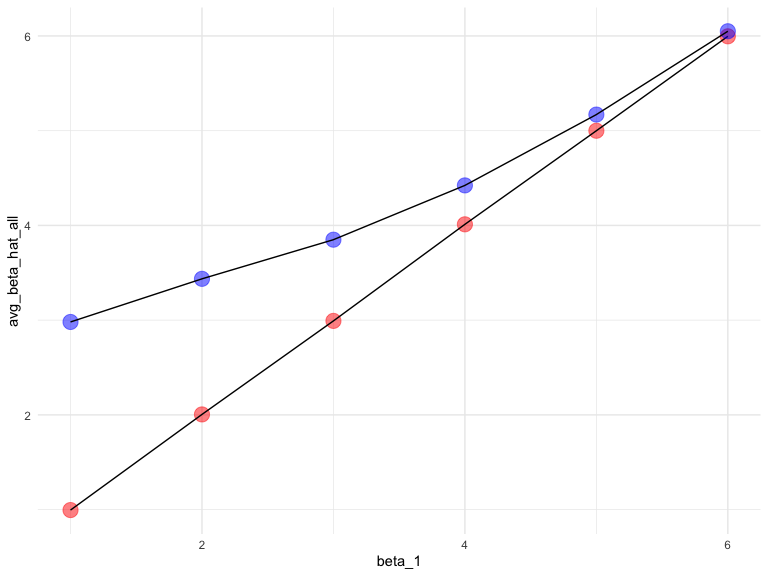
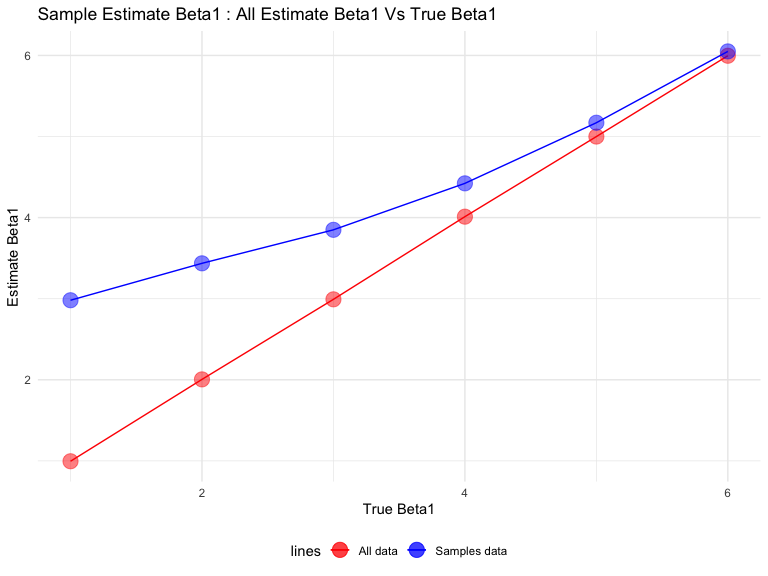
add the second plot for problem 3

diff --git a/p8105_hw5_wx2233.md b/p8105_hw5_wx2233.md
@@ -260,11 +260,20 @@ beta_data = left_join(all_data,samples_data)
 
 ``` r
 beta_data %>% 
-  ggplot(aes(x = beta_1, y = avg_beta_hat_all)) +
-  geom_point(color = "red", size = 5, alpha = 0.5) +
-  geom_line() +
-  geom_point(aes(x = beta_1, y = avg_beta_hat_sample), color = "blue", size = 5, alpha = 0.5) +
-  geom_line(aes(x = beta_1, y = avg_beta_hat_sample))
+  ggplot(aes(x = beta_1)) +
+  geom_point(aes(y = avg_beta_hat_all, color = "red"), size = 5, alpha = 0.5) +
+  geom_line(aes(y = avg_beta_hat_all, color = "red")) +
+  geom_point(aes(y = avg_beta_hat_sample,color = "blue"), size = 5, alpha = 0.5) +
+  geom_line(aes(y = avg_beta_hat_sample,color = "blue")) +
+  scale_color_identity(name = "lines",
+                       breaks = c("red", "blue"),
+                       labels = c("All data", "Samples data"),
+                       guide = "legend") +
+  labs(
+    title = "Sample Estimate Beta1 : All Estimate Beta1 Vs True Beta1",
+    x = "True Beta1",
+    y = "Estimate Beta1"
+  )
 ```
 
 <img src="p8105_hw5_wx2233_files/figure-gfm/unnamed-chunk-9-1.png" width="90%" />
